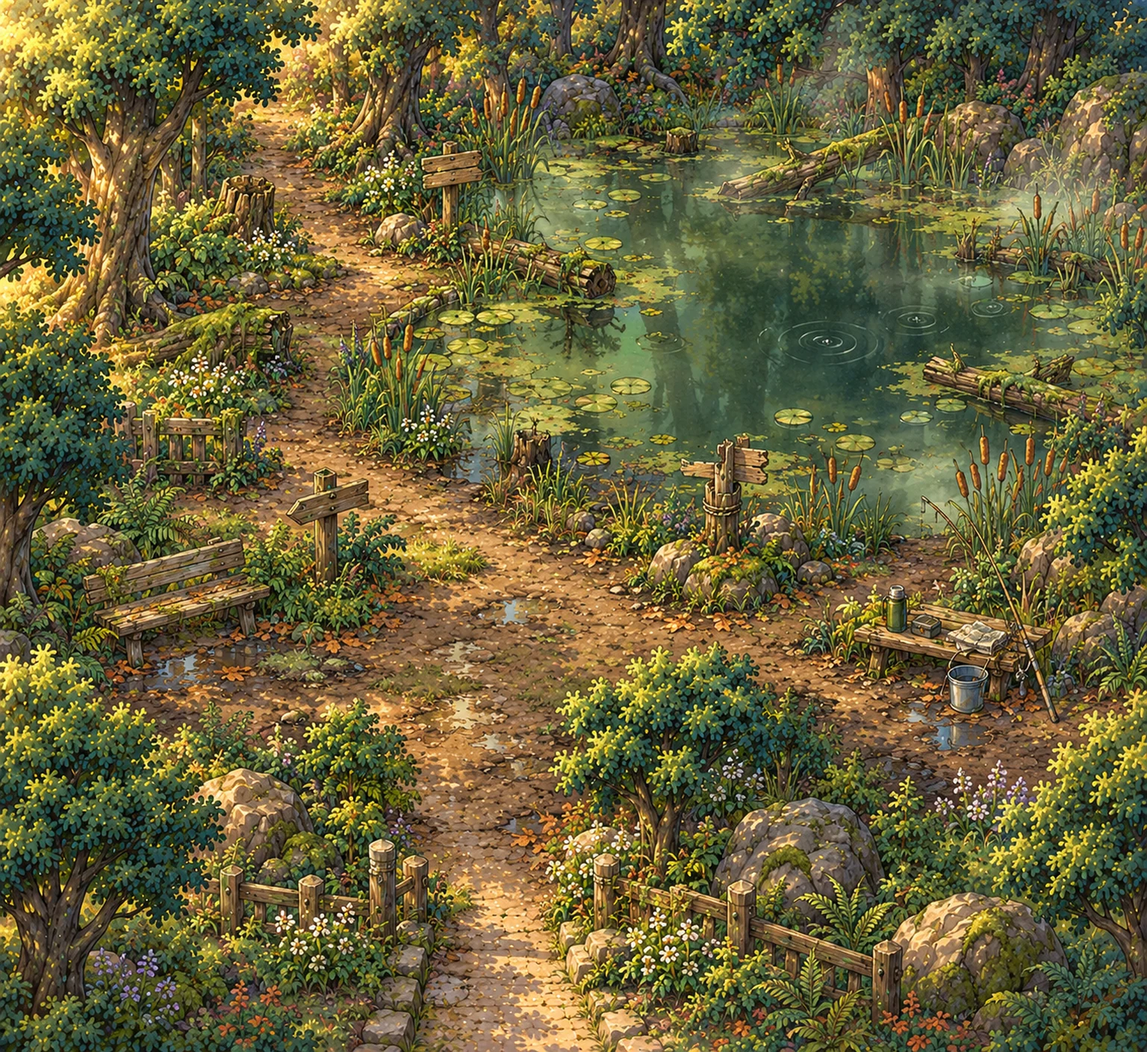
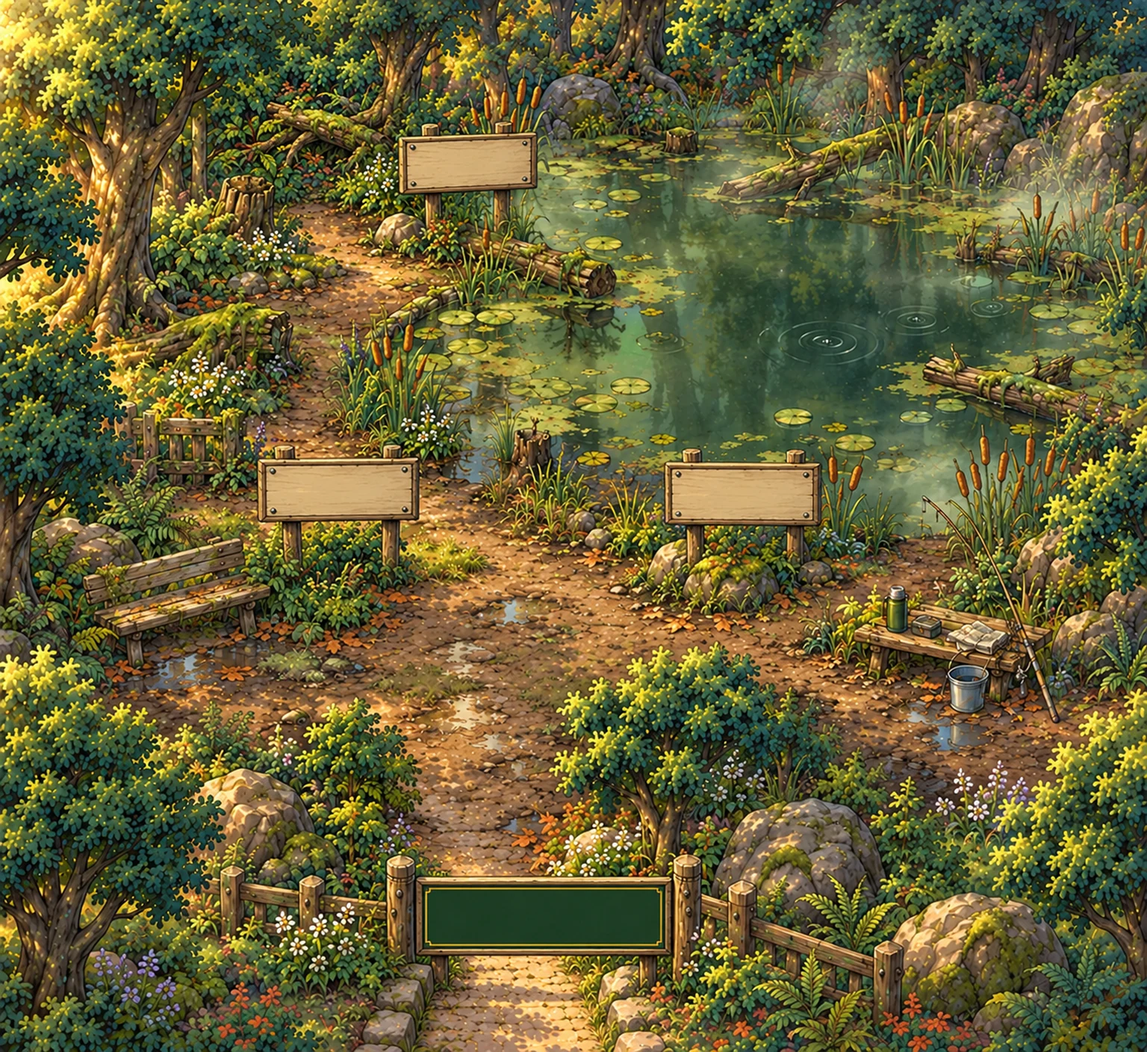
Repaint Grump Hollow: lettered signs and labeled south exit
Claude-Session: https://claude.ai/code/session_01RXeukEbYcVgZLdMoKYXNDk

diff --git a/engine/plate.js b/engine/plate.js
@@ -1,7 +1,7 @@
 'use strict';
 // engine/plate.js — Painted "plate" scenes (32-bit look). A plate replaces the tile/house/object
 // drawing for one map; the tile grid stays as the invisible logic layer (collision, doors, exits, NPCs).
-const PLATES={ town:{src:'art/town.webp?v=20261030b',px:64,img:null,ready:false}, row:{src:'art/row.webp?v=20261030c',px:64,img:null,ready:false}, hollow:{src:'art/hollow.webp',px:64,img:null,ready:false}, reeds:{src:'art/reeds.webp',px:64,img:null,ready:false}, amyhouse:{src:'art/amyhouse.webp?v=20261030',px:78,img:null,ready:false,square:true,actorScale:1.08}, grands:{src:'art/grands.webp?v=20261030',px:78,img:null,ready:false,square:true}, elliehouse:{src:'art/elliehouse.webp?v=20261030',px:78,img:null,ready:false,square:true,actorScale:1.98}, sundial:{src:'art/sundial.webp',px:64,img:null,ready:false}, school:{src:'art/school.webp',px:64,img:null,ready:false}, cafetorium:{src:'art/cafetorium.webp',px:64,img:null,ready:false}, readroom:{src:'art/readroom.webp',px:64,img:null,ready:false}, stacks:{src:'art/stacks.webp',px:64,img:null,ready:false}, moonclub:{src:'art/moonclub.webp',px:64,img:null,ready:false}, dome:{src:'art/dome.webp',px:64,img:null,ready:false}, gatezero:{src:'art/gatezero.webp',px:64,img:null,ready:false}, library:{src:'art/library.webp?v=20261030',px:78,img:null,ready:false,square:true}, terminal:{src:'art/terminal.webp',px:64,img:null,ready:false}, bakery:{src:'art/bakery.webp?v=20261030',px:78,img:null,ready:false,square:true}, greenhouse:{src:'art/greenhouse.webp?v=20261030',px:78,img:null,ready:false,square:true}, shop:{src:'art/shop.webp?v=20261030',px:78,img:null,ready:false,square:true}, observatory:{src:'art/observatory.webp?v=20261030',px:78,img:null,ready:false,square:true}, post:{src:'art/post.webp?v=20261030',px:78,img:null,ready:false,square:true}, tea:{src:'art/tea.webp?v=20261030',px:78,img:null,ready:false,square:true}, jpark:{src:'art/jpark.webp?v=20261029',px:64,img:null,ready:false}, griffith:{src:'art/griffith.webp',px:64,img:null,ready:false}, taxi:{src:'art/taxi.webp?v=20261030',px:78,img:null,ready:false,square:true}, blvd:{src:'art/blvd.webp',px:64,img:null,ready:false} };
+const PLATES={ town:{src:'art/town.webp?v=20261030b',px:64,img:null,ready:false}, row:{src:'art/row.webp?v=20261030c',px:64,img:null,ready:false}, hollow:{src:'art/hollow.webp?v=20261030d',px:64,img:null,ready:false}, reeds:{src:'art/reeds.webp',px:64,img:null,ready:false}, amyhouse:{src:'art/amyhouse.webp?v=20261030',px:78,img:null,ready:false,square:true,actorScale:1.08}, grands:{src:'art/grands.webp?v=20261030',px:78,img:null,ready:false,square:true}, elliehouse:{src:'art/elliehouse.webp?v=20261030',px:78,img:null,ready:false,square:true,actorScale:1.98}, sundial:{src:'art/sundial.webp',px:64,img:null,ready:false}, school:{src:'art/school.webp',px:64,img:null,ready:false}, cafetorium:{src:'art/cafetorium.webp',px:64,img:null,ready:false}, readroom:{src:'art/readroom.webp',px:64,img:null,ready:false}, stacks:{src:'art/stacks.webp',px:64,img:null,ready:false}, moonclub:{src:'art/moonclub.webp',px:64,img:null,ready:false}, dome:{src:'art/dome.webp',px:64,img:null,ready:false}, gatezero:{src:'art/gatezero.webp',px:64,img:null,ready:false}, library:{src:'art/library.webp?v=20261030',px:78,img:null,ready:false,square:true}, terminal:{src:'art/terminal.webp',px:64,img:null,ready:false}, bakery:{src:'art/bakery.webp?v=20261030',px:78,img:null,ready:false,square:true}, greenhouse:{src:'art/greenhouse.webp?v=20261030',px:78,img:null,ready:false,square:true}, shop:{src:'art/shop.webp?v=20261030',px:78,img:null,ready:false,square:true}, observatory:{src:'art/observatory.webp?v=20261030',px:78,img:null,ready:false,square:true}, post:{src:'art/post.webp?v=20261030',px:78,img:null,ready:false,square:true}, tea:{src:'art/tea.webp?v=20261030',px:78,img:null,ready:false,square:true}, jpark:{src:'art/jpark.webp?v=20261029',px:64,img:null,ready:false}, griffith:{src:'art/griffith.webp',px:64,img:null,ready:false}, taxi:{src:'art/taxi.webp?v=20261030',px:78,img:null,ready:false,square:true}, blvd:{src:'art/blvd.webp',px:64,img:null,ready:false} };
 PLATES.pier={src:'art/pier.webp?v=20261029',px:64,img:null,ready:false};
 PLATES.studio={src:'art/studio.webp?v=20261029',px:64,img:null,ready:false};
 PLATES.backlot={src:'art/backlot.webp?v=20261029',px:64,img:null,ready:false};
@@ -136,6 +136,13 @@ row:[
   {x:640,y:777,w:216,h:72,t:['AUNT ELLIE','HOUSE']},
   {x:736,y:40,w:232,h:72,t:['THE SQUARE','SHOPS'],light:true},
   {x:660,y:1226,w:282,h:72,t:['CATTAIL','PIER'],light:true}
+],
+// Grump Hollow (tools/hollow_signs.py): three wooden signs, then the south exit board
+hollow:[
+  {x:357,y:624,w:189,h:64,t:['GRUMP','HOLLOW']},
+  {x:546,y:190,w:157,h:59,t:['NO','SWIMMING']},
+  {x:901,y:629,w:183,h:65,t:['NOT A','FROG']},
+  {x:574,y:1192,w:308,h:70,t:['THE SQUARE','SHOPS'],light:true}
 ] };
 function drawPlateSigns(list) {
   const s=T/64;

diff --git a/data/maps-le.js b/data/maps-le.js
@@ -272,7 +272,7 @@ const LE_AREAS=[
     exits:[[9,21,'town',7,1,'down'],[10,21,'town',8,1,'down']],
     pools:[{tile:'water',shore:'mud',cells:[[11,3],[12,3],[13,3],[14,3],[15,3],[16,3],[17,3],[18,3],[19,3],[10,4],[11,4],[12,4],[13,4],[14,4],[15,4],[16,4],[17,4],[18,4],[19,4],[20,4],[21,4],[22,4],[10,5],[11,5],[12,5],[13,5],[14,5],[15,5],[16,5],[17,5],[18,5],[19,5],[20,5],[21,5],[22,5],[10,6],[11,6],[12,6],[13,6],[14,6],[15,6],[16,6],[17,6],[18,6],[19,6],[20,6],[21,6],[22,6],[10,7],[11,7],[12,7],[13,7],[14,7],[15,7],[16,7],[17,7],[18,7],[19,7],[20,7],[21,7],[22,7],[10,8],[11,8],[12,8],[13,8],[14,8],[15,8],[16,8],[17,8],[18,8],[19,8],[20,8],[21,8],[22,8],[10,9],[11,9],[12,9],[13,9],[14,9],[15,9],[16,9],[17,9],[18,9],[19,9],[20,10],[21,10],[22,10]]}],
     objects:[
-      ['sign',6,12,1,1,'Crooked sign','GRUMP HOLLOW. Trespassers will be squelched. Start with the Mudling. Save the fish for last.'],
+      ['sign',6,11,1,1,'Crooked sign','GRUMP HOLLOW. Trespassers will be squelched. Start with the Mudling. Save the fish for last.'],
       ['sign',9,4,1,1,'Pond sign','NO SWIMMING. The pond signed this itself.'],
       ['bench',2,12,4,2,'Soggy bench','Nobody has sat here since the Grump moved in. The bench misses company.'],
       ['bench',18,13,4,1,"Boppy's fishing spot",'A thermos, a bucket, zero fish. Boppy swears the big one lives here.'],

diff --git a/index.html b/index.html
@@ -1172,7 +1172,7 @@ document.addEventListener('click',function(e){var n=e.target.closest&&e.target.c
 <script src="data/ch18-monsters.js"></script>
 <script src="data/ch19-monsters.js"></script>
 <script src="data/ch20-monsters.js"></script>
-<script src="data/maps-le.js?v=row1"></script>
+<script src="data/maps-le.js?v=hollow1"></script>
 <script src="data/maps-p2.js?v=walk1"></script>
 <script src="data/maps-ch13.js?v=walk1"></script>
 <script src="data/maps-ch17.js?v=walk1"></script>
@@ -1388,7 +1388,7 @@ document.addEventListener('click',function(e){var n=e.target.closest&&e.target.c
 <script src="engine/club-render.js"></script>
 <script src="engine/terminal-render.js"></script>
 <script src="engine/infinity-render.js"></script>
-<script src="engine/plate.js?v=row2"></script>
+<script src="engine/plate.js?v=hollow1"></script>
 <script src="engine/draw.js?v=cover2"></script>
 <script src="engine/intro.js?v=tom4"></script>
 <script src="engine/travel.js?v=amy1"></script>

diff --git a/tools/hollow_signs.py b/tools/hollow_signs.py
@@ -1,0 +1,17 @@
+#!/usr/bin/env python3
+"""Build art/hollow.webp (Grump Hollow) from Tom's generated painting.
+
+Usage: python3 tools/hollow_signs.py <source.png> [out.webp]
+
+Scales the painting to 1536 x 1408 (24 x 22 tiles at 64 px). The generator drew the three wooden sign boards and the
+green exit board large enough, so nothing is repainted. The game letters all four live (engine/plate.js,
+PLATE_SIGNS.hollow), so spelling and sharpness never depend on the painting. Face rects measured on this build
+(art px): pond sign 546,190 157x59; crooked sign 357,624 189x64; warning stake 901,629 183x65; south exit 574,1192 308x70.
+"""
+import sys
+from PIL import Image
+SRC = sys.argv[1]
+OUT = sys.argv[2] if len(sys.argv) > 2 else 'art/hollow.webp'
+im = Image.open(SRC).convert('RGB').resize((1536, 1408), Image.LANCZOS)
+im.save(OUT, quality=88, method=6)
+print('wrote', OUT, im.size)

diff --git a/docs/CHANGES.md b/docs/CHANGES.md
@@ -1,3 +1,13 @@
+## 2026-10-30: Grump Hollow repainted: signs lettered, south exit labeled, north-west trail closed
+
+- New painting installed as `art/hollow.webp` (1536 x 1408, from Tom's image, kept in `docs/reference/hollow_v2_from_tom.png`). `tools/hollow_signs.py <source.png>` scales it to the plate size. The generator drew the three wooden signs and the green exit board large enough, so nothing is repainted.
+- The game letters all four boards live (`PLATE_SIGNS.hollow` in `engine/plate.js`): GRUMP / HOLLOW, NO / SWIMMING, NOT A / FROG, and the south exit THE SQUARE / SHOPS. The painting carries blank boards.
+- The trail in the north-west corner now ends in a dead end (the painting shows a fallen log and dense forest). It was already blocked in the walk map, so no mask change.
+- 'Crooked sign' object moved from (6,12) to (6,11), at the foot of its new board. Pond sign (9,4) and Warning stake (15,11) already sit at their boards.
+- `?v=hollow1` on `engine/plate.js` and `data/maps-le.js`, `?v=20261030d` on the plate.
+- Known limitation as on the Square and Row: in portrait the D-pad covers part of the south exit board when Tom stands at the exit.
+- Tests: reach_test hollow 0 fails, smoke and camera_clamp clean, phone-size shots portrait and landscape (`tools/shots/hollow-*.png`, not committed).
+
 ## 2026-10-30: Tombo prop sheet 6 of 10 (source and cut)
 - Saved `tombo-sheet06-of-10.png` (items 71 to 84); all 14 match (deputy cap, under-sink cabinet, garden bed, stake, seedling, watering can, vine, tomato, card table, peppers, Scoville meter, paper fan, milk, newspaper) and are cut. 124 of 138 Tombo props painted; the other 14 wait on the redo sheets. Not wired yet.
 
